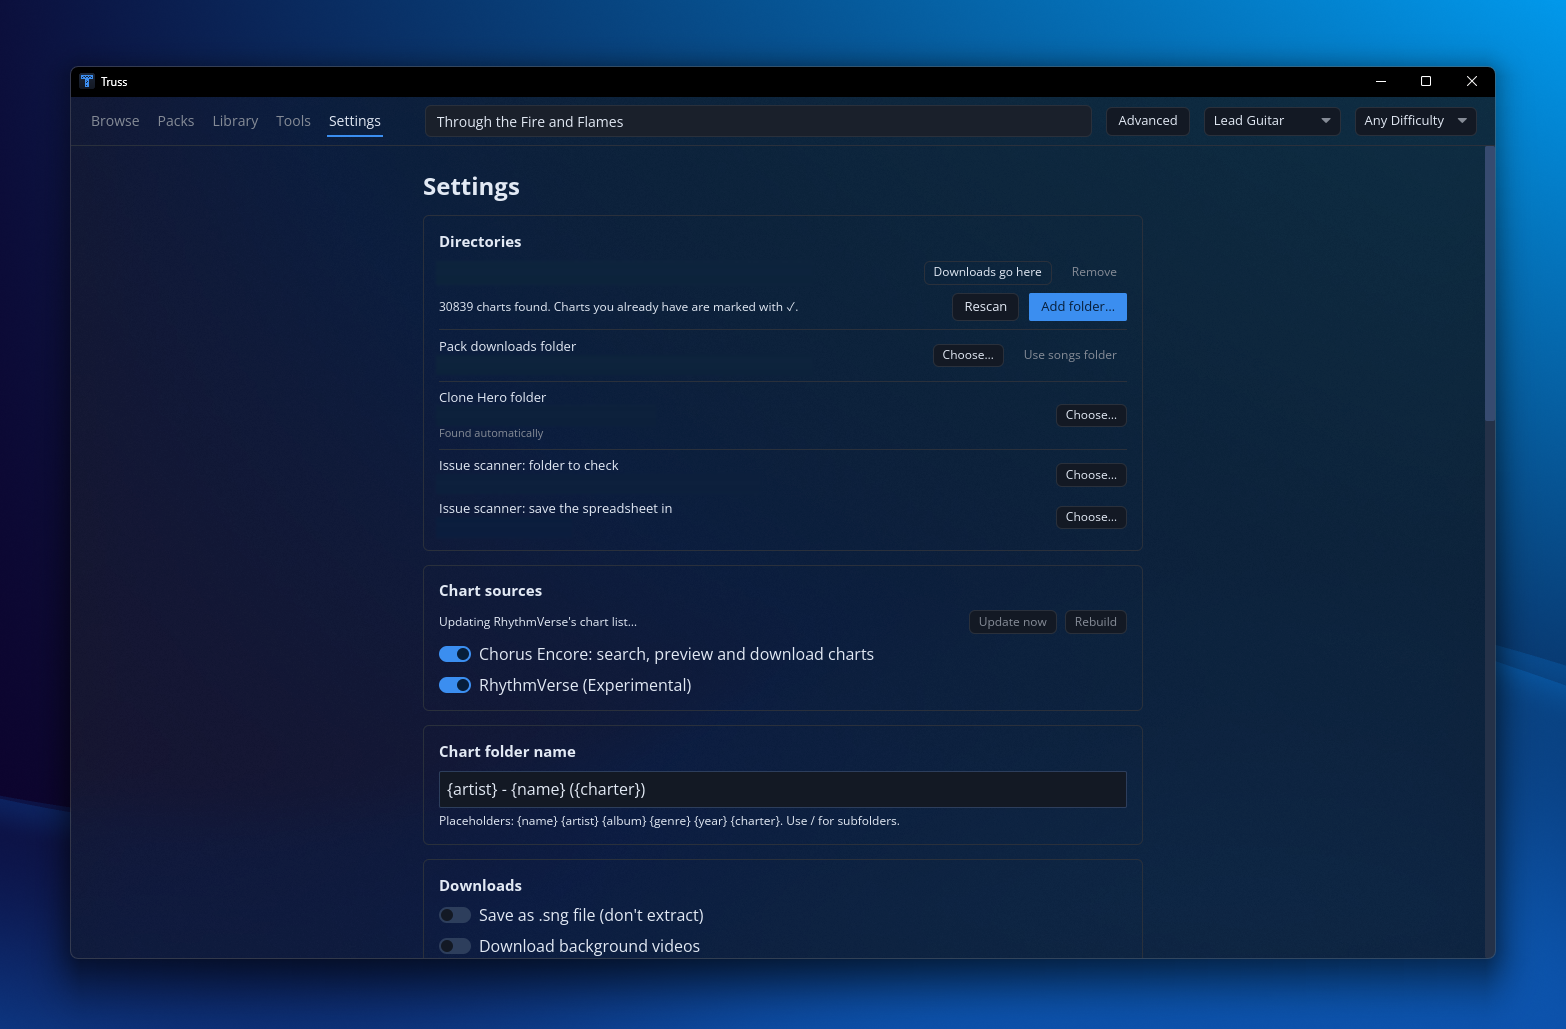
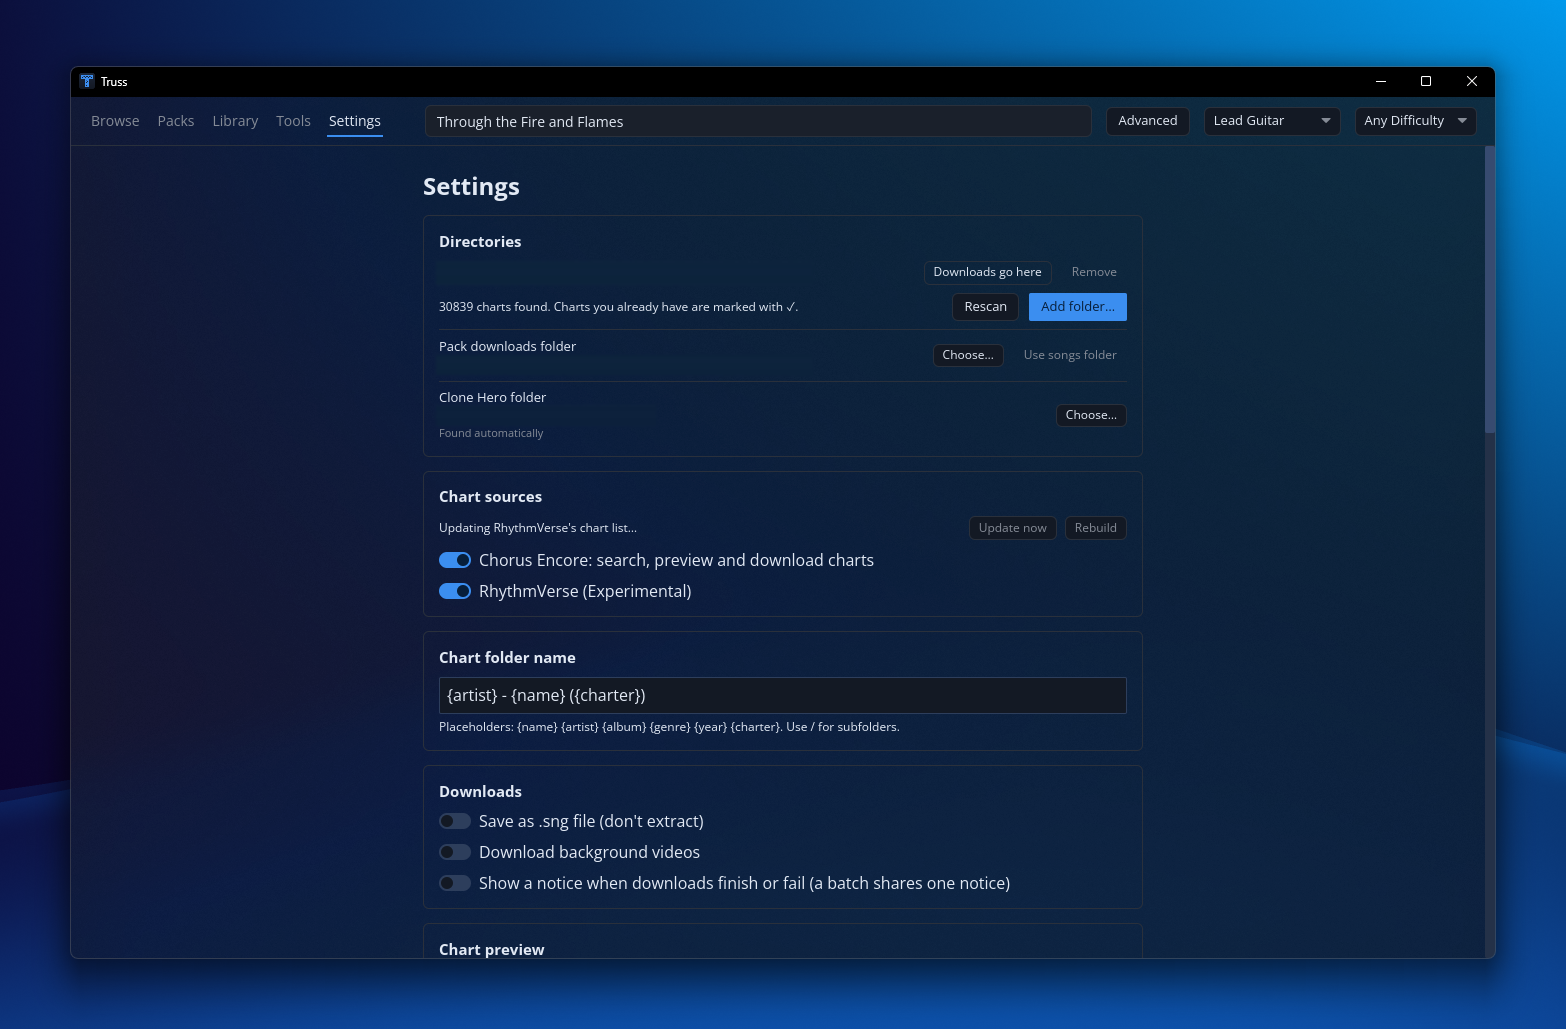
Hide the Issue scanner's folders while it's switched off
Settings > Directories only lists the Issue scanner's folders when the
scanner is on (it's hidden for now); the Settings screenshot is retaken
without them.

diff --git a/src/main.rs b/src/main.rs
@@ -3728,10 +3728,14 @@ impl App {
             .push(rule::horizontal(1).style(crate::style::rule))
             .push(self.pack_folder_setting())
             .push(rule::horizontal(1).style(crate::style::rule))
-            .push(self.ch_folder_setting())
-            .push(rule::horizontal(1).style(crate::style::rule))
-            .push(self.issue_folder_setting(false))
-            .push(self.issue_folder_setting(true));
+            .push(self.ch_folder_setting());
+        // The Issue scanner's folders, while it's switched on (it's hidden for now).
+        if tools_ui::ISSUE_SCANNER_ENABLED {
+            lib_col = lib_col
+                .push(rule::horizontal(1).style(crate::style::rule))
+                .push(self.issue_folder_setting(false))
+                .push(self.issue_folder_setting(true));
+        }
 
         let section = |title: &'static str, content: Element<'static, Message>| {
             container(column![text(title).font(BOLD).size(15), content].spacing(10))

diff --git a/src/tools_ui.rs b/src/tools_ui.rs
@@ -10,7 +10,7 @@ use std::sync::Arc;
 
 /// The Issue scanner is hidden for now (a full library produces more rows than a spreadsheet
 /// can hold). Its code stays so it can be revamped and switched back on.
-const ISSUE_SCANNER_ENABLED: bool = false;
+pub(crate) const ISSUE_SCANNER_ENABLED: bool = false;
 
 #[derive(Debug, Clone, Copy, PartialEq, Eq, Default)]
 pub enum Tab {
